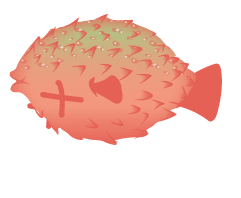
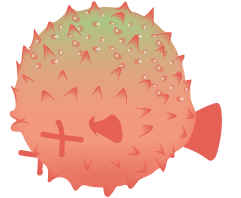
added animations PufferfishNormal collision with bubble

diff --git a/models/enemies/pufferfish-normal.class.js b/models/enemies/pufferfish-normal.class.js
@@ -27,13 +27,80 @@ class PufferfishNormal extends Pufferfish {
         ]
     }
 
+    IMAGES_DEAD = {
+        'green': [
+            'img/2_enemy/1_pufferfish/4_DIE/1.1.png',
+            'img/2_enemy/1_pufferfish/4_DIE/1.2.png',
+            'img/2_enemy/1_pufferfish/4_DIE/1.3.png',
+        ],
+
+        'orange': [
+            'img/2_enemy/1_pufferfish/4_DIE/2.1.png',
+            'img/2_enemy/1_pufferfish/4_DIE/2.2.png',
+            'img/2_enemy/1_pufferfish/4_DIE/2.3.png'
+        ]
+    }
+
+    IMAGES_HURT = {
+        'green': [
+            'img/2_enemy/1_pufferfish/2_transition/3.transition1.png',
+            'img/2_enemy/1_pufferfish/2_transition/3.transition2.png',
+            'img/2_enemy/1_pufferfish/2_transition/3.transition3.png',
+            'img/2_enemy/1_pufferfish/2_transition/3.transition4.png',
+            'img/2_enemy/1_pufferfish/2_transition/3.transition5.png',
+            'img/2_enemy/1_pufferfish/3_bubbleeswim/3.bubbleswim1.png',
+            'img/2_enemy/1_pufferfish/3_bubbleeswim/3.bubbleswim2.png',
+            'img/2_enemy/1_pufferfish/3_bubbleeswim/3.bubbleswim3.png',
+            'img/2_enemy/1_pufferfish/3_bubbleeswim/3.bubbleswim4.png',
+            'img/2_enemy/1_pufferfish/3_bubbleeswim/3.bubbleswim5.png',
+            'img/2_enemy/1_pufferfish/2_transition/3.transition5.png',
+            'img/2_enemy/1_pufferfish/2_transition/3.transition4.png',
+            'img/2_enemy/1_pufferfish/2_transition/1.transition3.png',
+            'img/2_enemy/1_pufferfish/2_transition/1.transition2.png',
+            'img/2_enemy/1_pufferfish/2_transition/1.transition1.png',
+
+        ],
+        'orange': [
+            'img/2_enemy/1_pufferfish/2_transition/3.transition1.png',
+            'img/2_enemy/1_pufferfish/2_transition/3.transition2.png',
+            'img/2_enemy/1_pufferfish/2_transition/3.transition3.png',
+            'img/2_enemy/1_pufferfish/2_transition/3.transition4.png',
+            'img/2_enemy/1_pufferfish/2_transition/3.transition5.png',
+            'img/2_enemy/1_pufferfish/3_bubbleeswim/3.bubbleswim1.png',
+            'img/2_enemy/1_pufferfish/3_bubbleeswim/3.bubbleswim2.png',
+            'img/2_enemy/1_pufferfish/3_bubbleeswim/3.bubbleswim3.png',
+            'img/2_enemy/1_pufferfish/3_bubbleeswim/3.bubbleswim4.png',
+            'img/2_enemy/1_pufferfish/3_bubbleeswim/3.bubbleswim5.png',
+            'img/2_enemy/1_pufferfish/2_transition/3.transition5.png',
+            'img/2_enemy/1_pufferfish/2_transition/3.transition4.png',
+            'img/2_enemy/1_pufferfish/2_transition/2.transition3.png',
+            'img/2_enemy/1_pufferfish/2_transition/2.transition2.png',
+            'img/2_enemy/1_pufferfish/2_transition/2.transition1.png',
+        ],
+    }
+
     constructor(x, y, color) {
         super();
         this.loadImage(this.IMAGES_SWIM[color][0]);
         this.loadImages(this.IMAGES_SWIM[color]);
+        this.loadImages(this.IMAGES_HURT[color]);
+        this.loadImages(this.IMAGES_DEAD[color]);
         this.x = x;
         this.y = y;
-        this.animate(this.IMAGES_SWIM[color], 'multiple');
+        this.animate1(color);
         this.moveLeft();
+    }
+
+    animate1(color) {
+        setInterval(() => {
+            if (this.isDead()) {
+                this.playAnimation(this.IMAGES_DEAD[color], 'once');
+                // delete Object in world
+            } else if (this.isHurt1() && !this.isDead()) {
+                this.playAnimation(this.IMAGES_HURT[color], 'once');
+            } else {
+                this.playAnimation(this.IMAGES_SWIM[color], 'multiple');
+            }
+        }, 100);
     }
 }

diff --git a/models/moveable-object.class.js b/models/moveable-object.class.js
@@ -54,7 +54,7 @@ class MovealbeObject extends DrawableObject {
         this.currentImage++;
         this.animationStopped = false;
     }
-    
+
     isColliding(mo) {
         return this.x + this.width - this.offset.width > mo.x + mo.offset.x &&
             this.y + this.height - this.offset.height > mo.y + mo.offset.y &&
@@ -75,7 +75,11 @@ class MovealbeObject extends DrawableObject {
     isHurt1() {
         let timePassed = new Date().getTime() - this.lastHit; // Difference in ms
         timePassed = timePassed / 1000; // Difference in s
-        return timePassed < 0.5;
+        if (this instanceof PufferfishNormal) { // Pufferfish has longer animation
+            return timePassed < 1.2;
+        } else {
+            return timePassed < 0.5;
+        }
     }
 
     isDead() {
